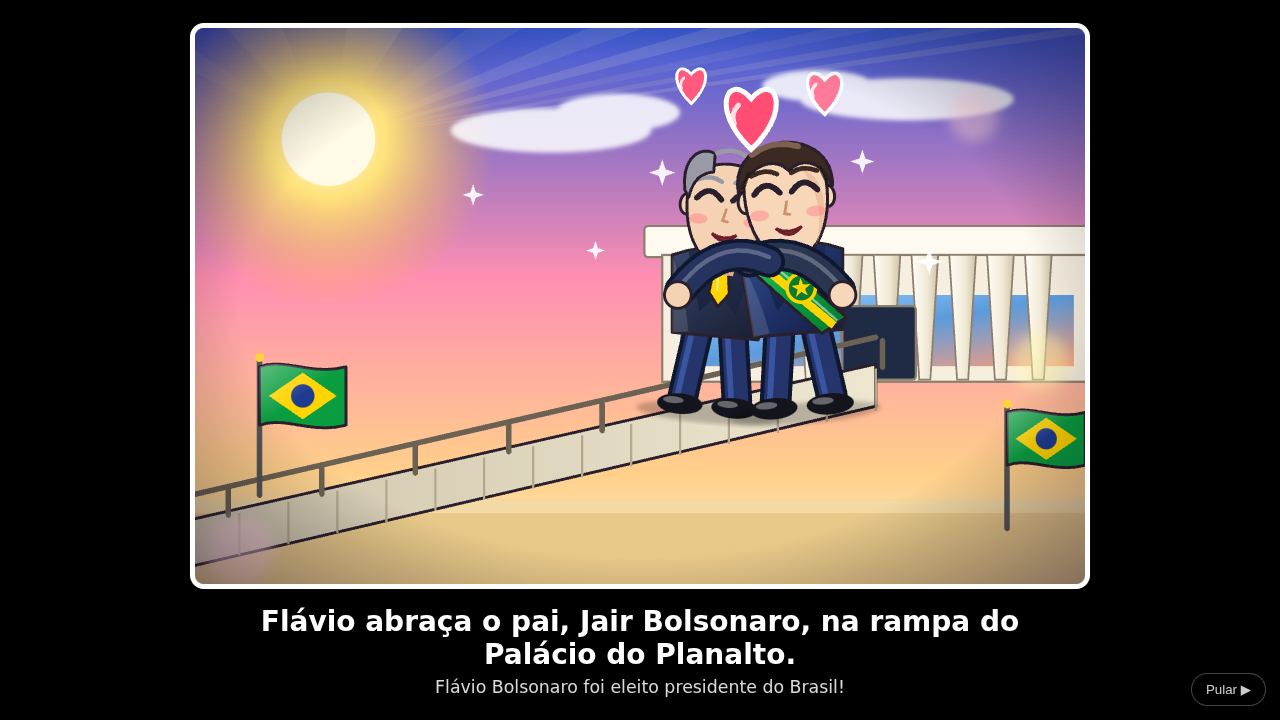
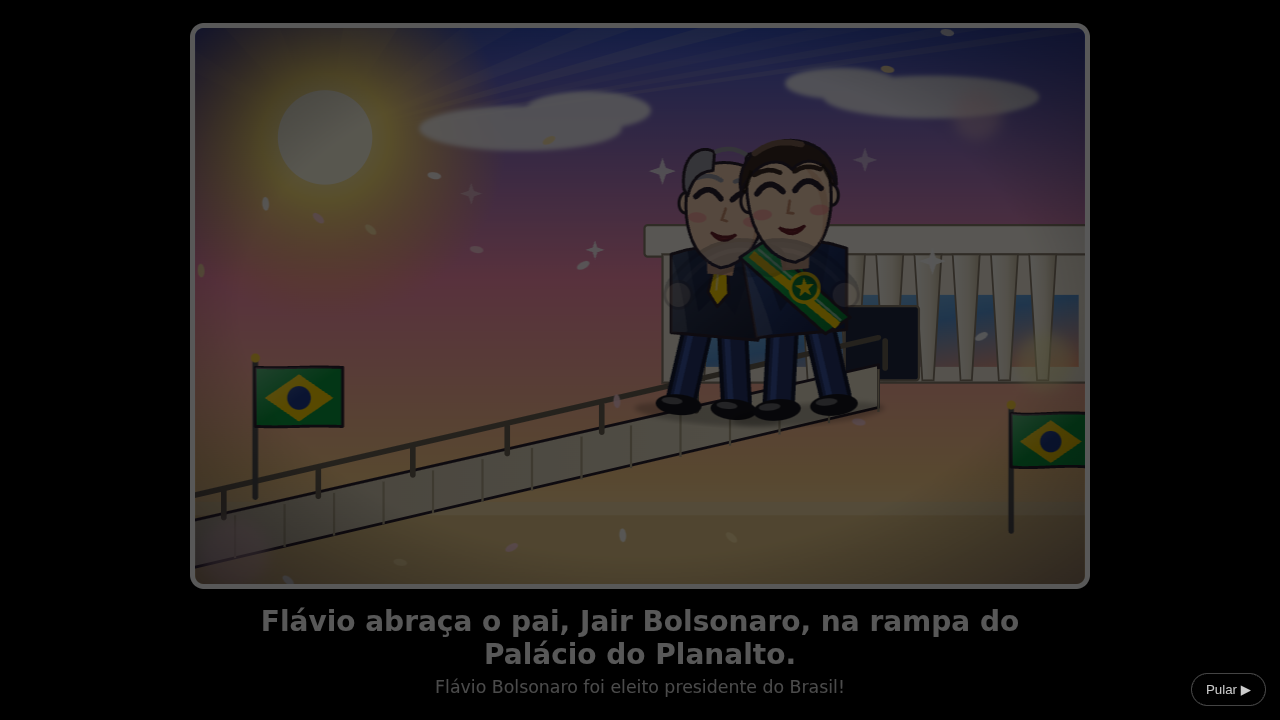
Renomeia os personagens e atualiza README e screenshots

diff --git a/index.html b/index.html
@@ -343,7 +343,7 @@
   <div class="step">1 · Escolha o seu lado</div>
   <div class="choose">
     <div class="card f" data-side="flavio">Flávio Bolsonaro<small>PL · verde e amarelo<br>Poder final: Motociata (linha inteira)</small></div>
-    <div class="card l" data-side="lula">Lula<small>PT · vermelho e estrela<br>Poder final: Caravana (coluna inteira)</small></div>
+    <div class="card l" data-side="lula">Lula Molusco<small>PT · vermelho e estrela<br>Poder final: Caravana (coluna inteira)</small></div>
   </div>
   <div id="levelsWrap" class="hidden">
     <div class="step" id="levelsTitle">2 · Escolha a fase</div>
@@ -428,7 +428,7 @@ const SIDES = {
             main:0x009c3b, alt:0xffdf00, css:"#009c3b", cssAlt:"#ffdf00",
             cross:"Buzinaço", ultra:"Motociata", ultraDesc:"linha inteira", ultraMode:"row",
             skin:0xf2c9a5, hair:0x2b1d14, beard:false, shirts:[0x009c3b,0xffdf00,0x009c3b,0xffffff] },
-  lula:   { key:"lula", name:"Lula", short:"Lula", party:"PT",
+  lula:   { key:"lula", name:"Lula Molusco", short:"Molusco", party:"PT",
             main:0xd7191c, alt:0xffdf00, css:"#d7191c", cssAlt:"#ffdf00",
             cross:"Comício", ultra:"Caravana", ultraDesc:"coluna inteira", ultraMode:"col",
             skin:0xe8b48c, hair:0xf2f2f2, beard:true, shirts:[0xd7191c,0xffffff,0xd7191c,0xb01015] },
@@ -436,19 +436,19 @@ const SIDES = {
 /* personagens: os dois líderes e os adversários de cada trilha */
 const CHARS = {
   flavio:  { name:"Flávio Bolsonaro",    short:"Flávio",   party:"PL",           camp:"flavio", skin:0xf2c9a5, hair:0x2b1d14, hairStyle:"short" },
-  lula:    { name:"Lula",                short:"Lula",     party:"PT",           camp:"lula",   skin:0xe8b48c, hair:0xf2f2f2, hairStyle:"short", beard:true },
-  boulos:  { name:"Guilherme Boulos",    short:"Boulos",   party:"PSOL",         camp:"lula",   skin:0xe0ac82, hair:0x1d1510, hairStyle:"short", beard:true, beardColor:0x3a2a20 },
-  gleisi:  { name:"Gleisi Hoffmann",     short:"Gleisi",   party:"PT",           camp:"lula",   skin:0xf2c9a5, hair:0x6b4a2a, hairStyle:"bob" },
-  moraes:  { name:"Alexandre de Moraes", short:"Moraes",   party:"STF",          camp:"lula",   skin:0xe8b48c, hair:0x222222, hairStyle:"bald", glasses:true },
-  nikolas: { name:"Nikolas Ferreira",    short:"Nikolas",  party:"PL",           camp:"flavio", skin:0xf2c9a5, hair:0x2b1d14, hairStyle:"short" },
-  tarcisio:{ name:"Tarcísio de Freitas", short:"Tarcísio", party:"Republicanos", camp:"flavio", skin:0xe8b48c, hair:0x2b2018, hairStyle:"short", glasses:true },
-  michelle:{ name:"Michelle Bolsonaro",  short:"Michelle", party:"PL",           camp:"flavio", skin:0xf2c9a5, hair:0xd9b36a, hairStyle:"long" },
-  felipe:  { name:"Felipe Neto",         short:"Felipe",   party:"Influencer",   camp:"lula",   skin:0xf2c9a5, hair:0x1d1510, hairStyle:"short" },
-  hang:    { name:"Luciano Hang",        short:"Hang",     party:"Empresário",   camp:"flavio", skin:0xf2c9a5, hair:0xdcdcdc, hairStyle:"short" },
-  marina:  { name:"Marina Silva",        short:"Marina",   party:"Rede",         camp:"lula",   skin:0xe0ac82, hair:0x3a2a1a, hairStyle:"bob" },
-  salles:  { name:"Ricardo Salles",      short:"Salles",   party:"PL",           camp:"flavio", skin:0xf2c9a5, hair:0x2b1d14, hairStyle:"short" },
-  anitta:  { name:"Anitta",              short:"Anitta",   party:"Cantora",      camp:"lula",   skin:0xe0ac82, hair:0x5a2f1c, hairStyle:"long" },
-  carlos:  { name:"Carlos Bolsonaro",    short:"Carlos",   party:"PL",           camp:"flavio", skin:0xf2c9a5, hair:0x2b1d14, hairStyle:"short", beard:true, beardColor:0x3a2a20 },
+  lula:    { name:"Lula Molusco",                short:"Molusco",     party:"PT",           camp:"lula",   skin:0xe8b48c, hair:0xf2f2f2, hairStyle:"short", beard:true },
+  boulos:  { name:"Guilherme Bolos",    short:"Bolos",   party:"PSOL",         camp:"lula",   skin:0xe0ac82, hair:0x1d1510, hairStyle:"short", beard:true, beardColor:0x3a2a20 },
+  gleisi:  { name:"G. Rofman",     short:"Rofman",   party:"PT",           camp:"lula",   skin:0xf2c9a5, hair:0x6b4a2a, hairStyle:"bob" },
+  moraes:  { name:"Alexandre sem Moral", short:"Sem Moral",   party:"STF",          camp:"lula",   skin:0xe8b48c, hair:0x222222, hairStyle:"bald", glasses:true },
+  nikolas: { name:"Niko Ferrado",    short:"Niko",  party:"PL",           camp:"flavio", skin:0xf2c9a5, hair:0x2b1d14, hairStyle:"short" },
+  tarcisio:{ name:"Tarcizinho", short:"Tarcizinho", party:"Republicanos", camp:"flavio", skin:0xe8b48c, hair:0x2b2018, hairStyle:"short", glasses:true },
+  michelle:{ name:"Michela",  short:"Michela", party:"PL",           camp:"flavio", skin:0xf2c9a5, hair:0xd9b36a, hairStyle:"long" },
+  felipe:  { name:"Felipe Feto",         short:"Feto",   party:"Influencer",   camp:"lula",   skin:0xf2c9a5, hair:0x1d1510, hairStyle:"short" },
+  hang:    { name:"Véio da Avon",        short:"Véio",     party:"Empresário",   camp:"flavio", skin:0xf2c9a5, hair:0xdcdcdc, hairStyle:"short" },
+  marina:  { name:"Marina Sílvia",        short:"Sílvia",   party:"Rede",         camp:"lula",   skin:0xe0ac82, hair:0x3a2a1a, hairStyle:"bob" },
+  salles:  { name:"Ricardo Venddas",      short:"Venddas",   party:"PL",           camp:"flavio", skin:0xf2c9a5, hair:0x2b1d14, hairStyle:"short" },
+  anitta:  { name:"Pablo Vital",              short:"Vital",   party:"Cantora",      camp:"lula",   skin:0xe0ac82, hair:0x5a2f1c, hairStyle:"long" },
+  carlos:  { name:"Carlucho",    short:"Carlucho",   party:"PL",           camp:"flavio", skin:0xf2c9a5, hair:0x2b1d14, hairStyle:"short", beard:true, beardColor:0x3a2a20 },
 };
 /* adversários por fase, conforme o lado que você escolheu (o chefão é sempre o líder do outro lado) */
 const TRACKS = {
@@ -1828,9 +1828,9 @@ function bossPower(done) {
   if (G.boss.kind === "flavio") {                                    // Flávio: recarrega a vida toda
     keys.forEach(([r,c]) => { const p = tilePos(1,r,c); burst(p, [0x2f9a3f, 0xffd23a, 0xffffff], 20, 5); removeMinion(r, c, false); });
     G.boss.hp = G.boss.max;
-    toast("FLÁVIO RECARREGOU A VIDA!", "#ffdf00");
-    setAction("💚 Flávio recarregou a vida toda!", "#ffdf00", `${BOSS_MINIONS} bolsonaristas reunidos · vida ${G.boss.hp}/${G.boss.max}`);
-    log(`💚 ${BOSS_MINIONS} bolsonaristas reunidos: Flávio recarregou a vida (${G.boss.hp}/${G.boss.max}).`);
+    toast(`${G.enemy.short.toUpperCase()} RECARREGOU A VIDA!`, "#ffdf00");
+    setAction(`💚 ${G.enemy.short} recarregou a vida toda!`, "#ffdf00", `${BOSS_MINIONS} bolsonaristas reunidos · vida ${G.boss.hp}/${G.boss.max}`);
+    log(`💚 ${BOSS_MINIONS} bolsonaristas reunidos: ${G.enemy.short} recarregou a vida (${G.boss.hp}/${G.boss.max}).`);
     [523,659,784,1047].forEach((f,i) => tone(f,.2,"square",.08,0,i*.1));
     ui(); setTimeout(done, 1100);
     return;
@@ -2692,8 +2692,8 @@ function startEnding(side) {
   if (isRec) setRecord(total);
   $("endArt").innerHTML = endingArt(side);
   $("endCaption").innerHTML = side === "lula"
-    ? `Lula sobe a rampa do Palácio do Planalto com a faixa presidencial.<small>${ch.name} foi eleito presidente do Brasil!</small>`
-    : `Flávio abraça o pai, Jair Bolsonaro, na rampa do Palácio do Planalto.<small>${ch.name} foi eleito presidente do Brasil!</small>`;
+    ? `${ch.name} sobe a rampa do Palácio do Planalto com a faixa presidencial.<small>${ch.name} foi eleito presidente do Brasil!</small>`
+    : `${ch.short} abraça o pai, Jair Bolsonaro, na rampa do Palácio do Planalto.<small>${ch.name} foi eleito presidente do Brasil!</small>`;
   $("endVotes").textContent = fmtVotes(total);
   $("endRecord").textContent = `Recorde: ${fmtVotes(Math.max(prev, total))} votos`;
   $("endNewRec").classList.toggle("hidden", !isRec);
@@ -2701,7 +2701,7 @@ function startEnding(side) {
   $("endKey").textContent = PIX_KEY;
   $("credits").innerHTML = `
     <h3>SUPER PRESIDA BATALHA</h3>
-    <div class="dim">${side === "lula" ? "A trilha do Lula" : "A trilha do Flávio"} · fim</div>
+    <div class="dim">${side === "lula" ? "A trilha do " + CHARS.lula.short : "A trilha do " + CHARS.flavio.short} · fim</div>
     <div class="role">Um jogo criado por</div><div class="name">rpossan</div>
     <div class="role">Direção e roteiro</div><div class="name">rpossan</div>
     <div class="role">Programação</div><div class="name">rpossan</div>
@@ -2713,8 +2713,8 @@ function startEnding(side) {
     <h3>CENÁRIOS</h3>
     <div class="dim" style="margin-top:6px">Av. Paulista · Aeroporto Salgado Filho · Cristo Redentor · Sertão · Amazônia · Balneário Camboriú · Praça dos Três Poderes</div>
     <div class="role">Participações (em tom de paródia)</div>
-    <div class="name" style="font-size:1em">Boulos · Gleisi · Moraes · Felipe Neto · Marina Silva · Anitta · Lula</div>
-    <div class="name" style="font-size:1em">Nikolas · Tarcísio · Michelle · Luciano Hang · Ricardo Salles · Carlos · Flávio</div>
+    <div class="name" style="font-size:1em">${["boulos","gleisi","moraes","felipe","marina","anitta","lula"].map(k => CHARS[k].name).join(" · ")}</div>
+    <div class="name" style="font-size:1em">${["nikolas","tarcisio","michelle","hang","salles","carlos","flavio"].map(k => CHARS[k].name).join(" · ")}</div>
     <div class="dim">Jogo apartidário e imparcial. Paródia bem-humorada: os personagens são inspirados em figuras públicas, sem nenhuma intenção de ofender ninguém.</div>
     <h3>OBRIGADO POR JOGAR!</h3>
     <div class="name">rpossan</div>

diff --git a/README.md b/README.md
@@ -62,15 +62,15 @@ quando fazer uma pesquisa para descobrir onde o adversário se esconde e qual po
 
 Escolha o lado e vença uma fase por vez. Cada vitória libera a próxima e a dificuldade cresce.
 
-| Fase | Cenário | Contra o **Flávio** (PL) | Contra o **Lula** (PT) | Nível | Perigo |
+| Fase | Cenário | Contra o **Flávio** (PL) | Contra o **Lula Molusco** (PT) | Nível | Perigo |
 |---|---|---|---|---|---|
-| 1 | Av. Paulista (SP) | Guilherme Boulos | Nikolas Ferreira | Fácil | — |
-| 2 | Aeroporto Salgado Filho (RS) | Gleisi Hoffmann | Tarcísio de Freitas | Médio | — |
-| 3 | Cristo Redentor (RJ) | Alexandre de Moraes | Michelle Bolsonaro | Difícil | ⚠ bala perdida |
-| 4 | Sertão Nordestino | Felipe Neto | Luciano Hang | Muito difícil | 🔥 fogo |
-| 5 | Floresta Amazônica | Marina Silva | Ricardo Salles | Extremo | 🏹 flechas |
-| 6 | Balneário Camboriú (SC) | Anitta | Carlos Bolsonaro | Pré-chefão | 🏖 sem danos |
-| 7 | Praça dos Três Poderes (DF) | **Lula (chefão)** | **Flávio (chefão)** | Chefão | 👑 luta final |
+| 1 | Av. Paulista (SP) | Guilherme Bolos | Niko Ferrado | Fácil | — |
+| 2 | Aeroporto Salgado Filho (RS) | G. Rofman | Tarcizinho | Médio | — |
+| 3 | Cristo Redentor (RJ) | Alexandre sem Moral | Michela | Difícil | ⚠ bala perdida |
+| 4 | Sertão Nordestino | Felipe Feto | Véio da Avon | Muito difícil | 🔥 fogo |
+| 5 | Floresta Amazônica | Marina Sílvia | Ricardo Venddas | Extremo | 🏹 flechas |
+| 6 | Balneário Camboriú (SC) | Pablo Vital | Carlucho | Pré-chefão | 🏖 sem danos |
+| 7 | Praça dos Três Poderes (DF) | **Lula Molusco (chefão)** | **Flávio (chefão)** | Chefão | 👑 luta final |
 
 ### Cenários
 
@@ -98,7 +98,7 @@ Escolha o lado e vença uma fase por vez. Cada vitória libera a próxima e a di
 O chefão é **único, sem torcida, e tem pontos de vida**. A cada acerto ele **muda de casa, escondido**.
 
 - 👤 **Cada erro seu** faz surgir um seguidor visível. Acerte-o para eliminá-lo.
-- 💥 **Lula:** com 6 petistas reunidos, eles **explodem 4 casas** da sua arena.
+- 💥 **Lula Molusco:** com 6 petistas reunidos, eles **explodem 4 casas** da sua arena.
 - 💚 **Flávio:** com 6 bolsonaristas reunidos, ele **recarrega a vida toda**.
 - 📊 Use a **pesquisa** para descobrir em que área ele está.
 
@@ -111,7 +111,7 @@ créditos rolando e o QR code do Pix.
 
 <table>
   <tr>
-    <td align="center"><img src="docs/img/final_lula.png" width="390"><br><b>Trilha do Lula</b></td>
+    <td align="center"><img src="docs/img/final_lula.png" width="390"><br><b>Trilha do Lula Molusco</b></td>
     <td align="center"><img src="docs/img/final_flavio.png" width="390"><br><b>Trilha do Flávio</b></td>
   </tr>
 </table>
